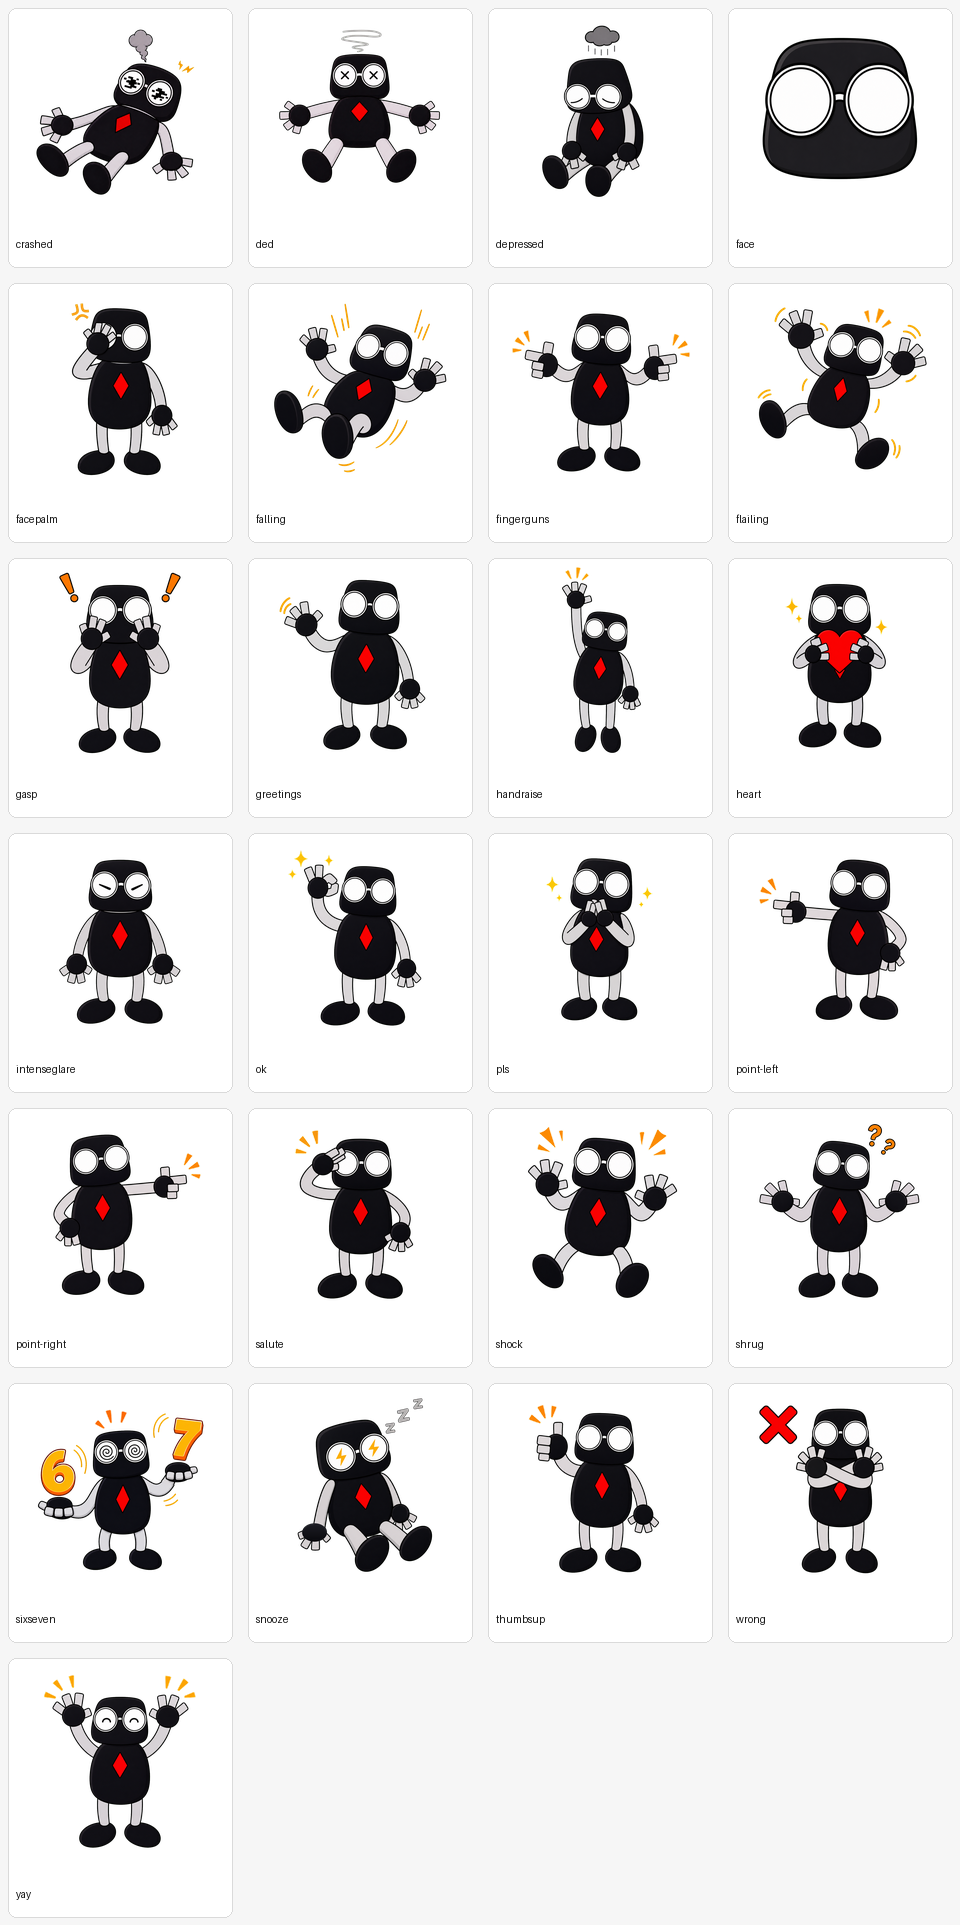
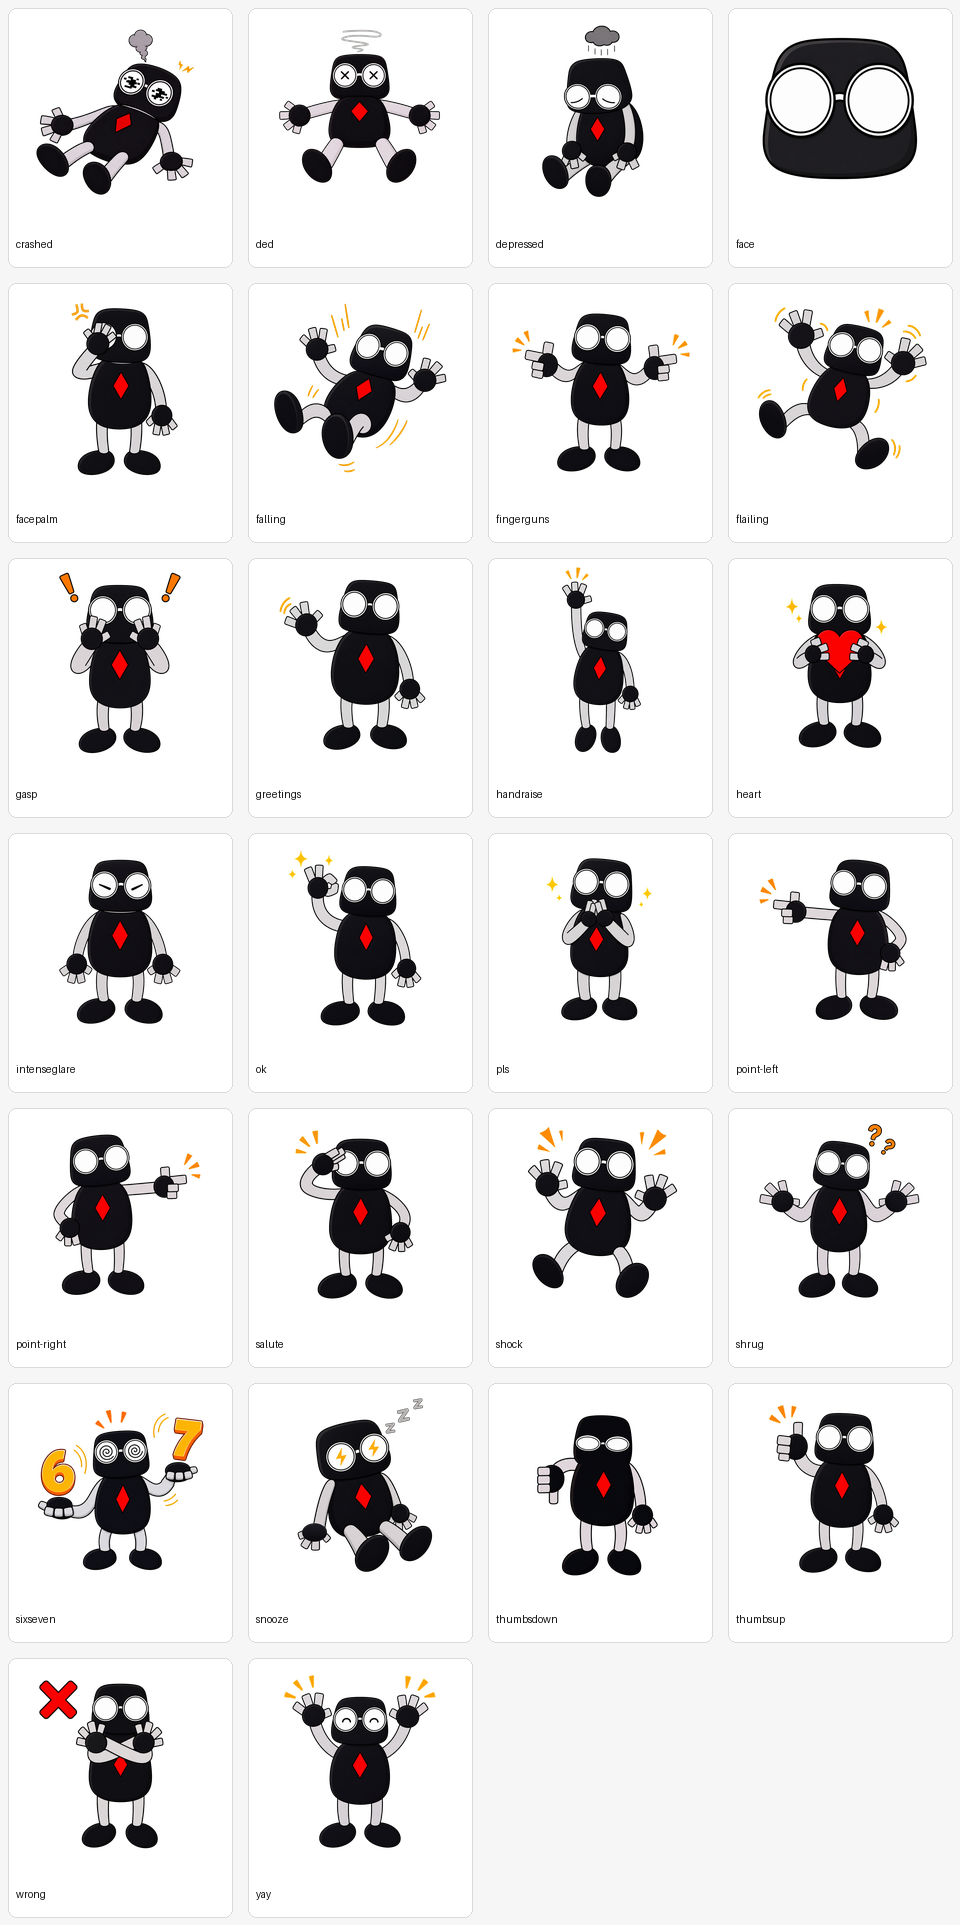
feat: add thumbs-down sticker

diff --git a/stickers/README.md b/stickers/README.md
@@ -2,7 +2,7 @@
 
 Use these transparent PNGs as the current locked rectangular-finger T Krobot sticker set.
 
-- Count: 25 stickers.
+- Count: 26 stickers.
 - Source slugs use clean names for the current pack; `stickers/manifest.json` maps them back to the original scrape names and documents project-native additions.
 - Manifest: `stickers/manifest.json`.
 - Chroma-key sources live in `archive/chroma-key-sources/`.
